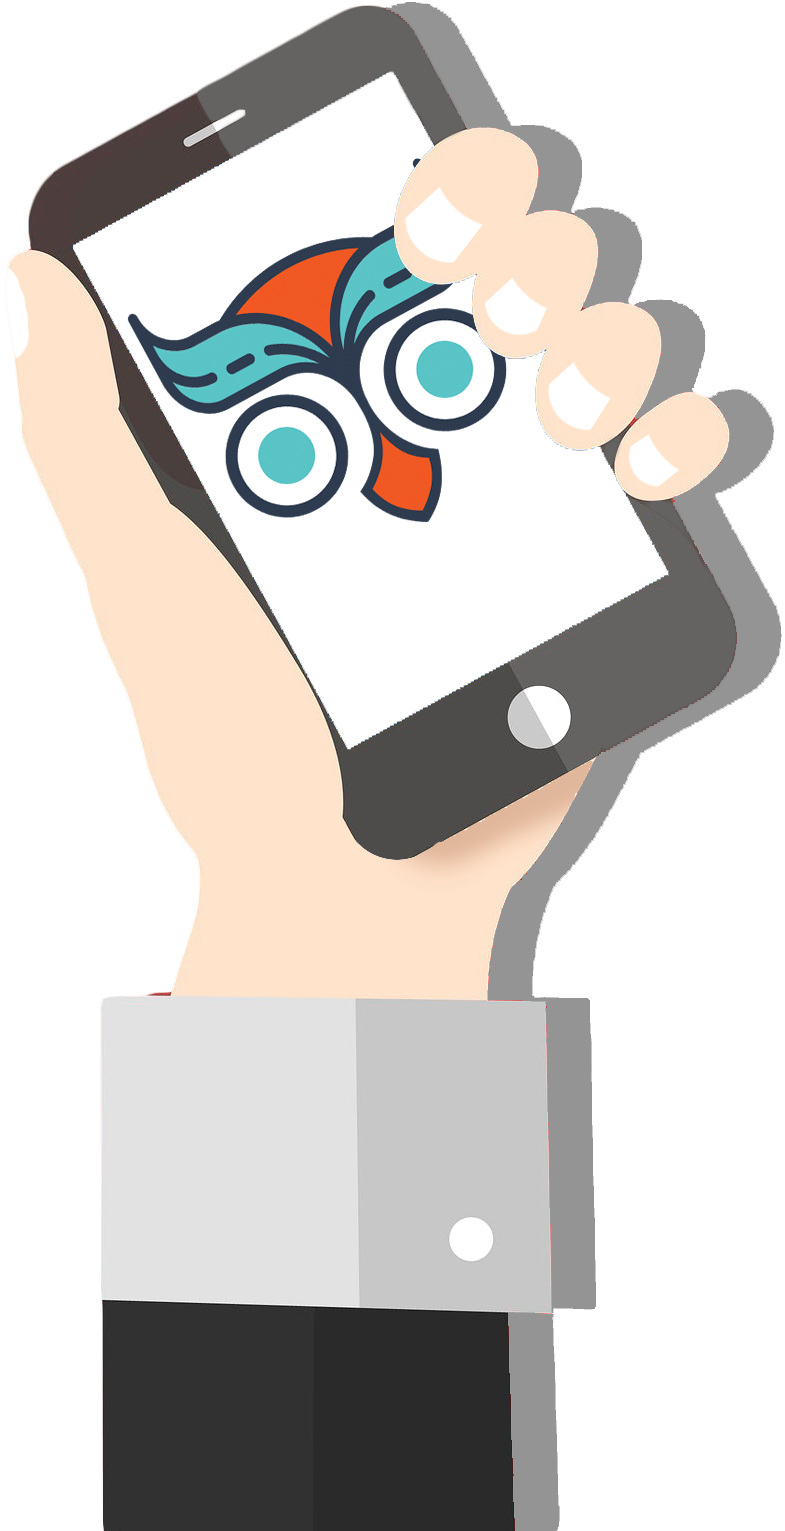
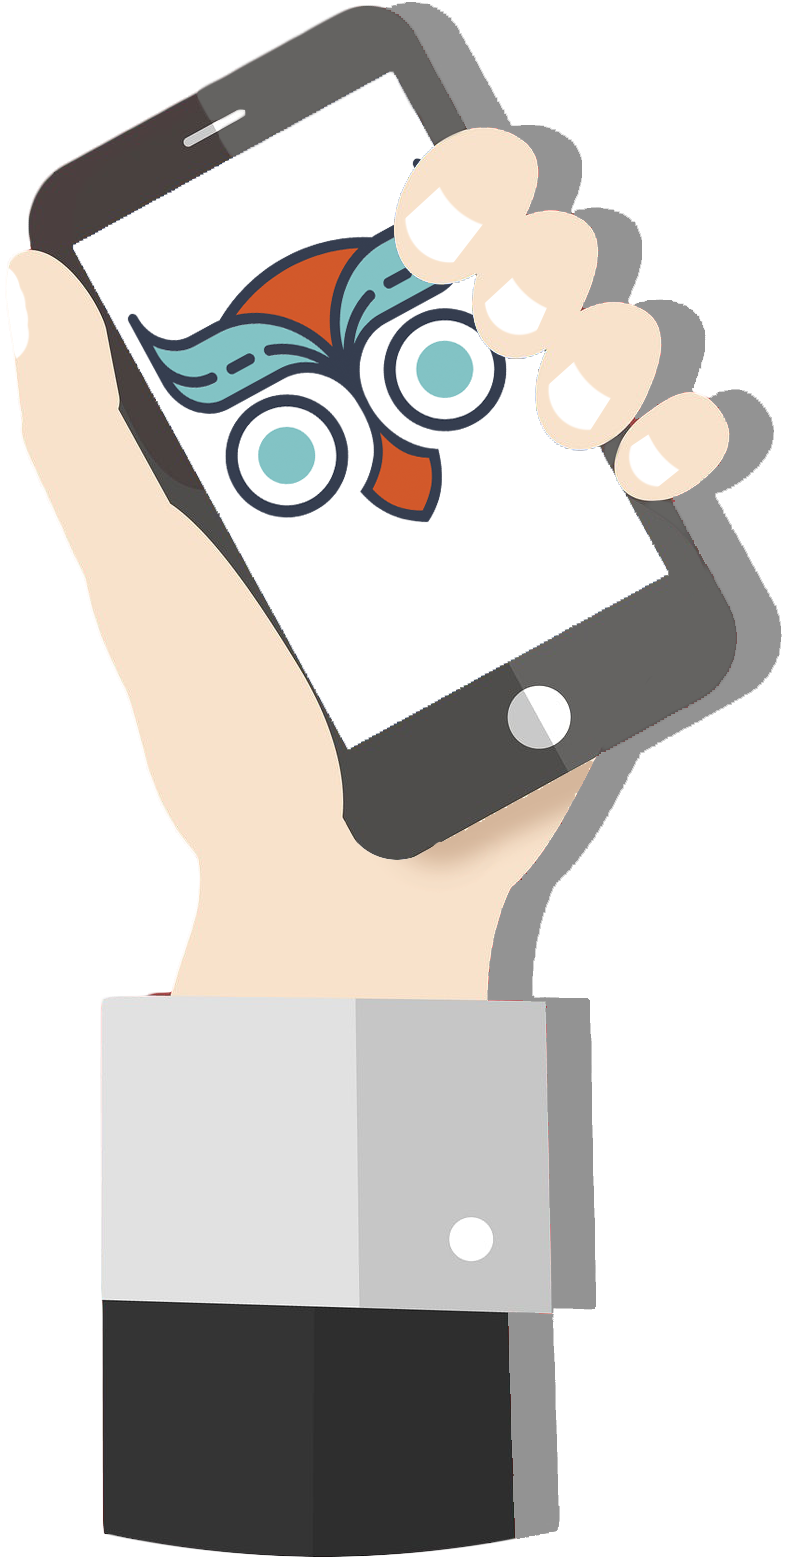
Added tutors and student stuff

diff --git a/index.html b/index.html
@@ -242,7 +242,6 @@
         <div class="section-header">
           <h3 class="section-title">For Tutors</h3>
           <span class="section-divider"></span>
-          <p class="section-description">On the other side of our LearnD app is the tutor; a passionate individual, who excels in some academic area</p>
         </div>
 
         <div class="row">
@@ -251,7 +250,7 @@
             <div class="box wow fadeInLeft">
               <div class="icon"><i class="ion-social-euro-outline"></i></div>
               <h4 class="title"><a href="">Set Your Rate</a></h4>
-              <p class="description">Set your own tuition rate.  LearnD is just a conduit to give you access to students.</p>
+              <p class="description">In choosing an hourly rate for your tuition services, make money flexibly by tutoring students in need.</p>
             </div>
           </div>
 
@@ -259,7 +258,7 @@
             <div class="box wow fadeInRight">
               <div class="icon"><i class="ion-coffee"></i></div>
               <h4 class="title"><a href="">Tutor Anywhere</a></h4>
-              <p class="description">Decide where you want to tutor, either at the student's place or at yours, or at Costa Coffee.</p>
+              <p class="description">The world is your classroom. The in-app chat and lesson request system makes it easy to set up a lesson anywhere.</p>
             </div>
           </div>
 
@@ -267,7 +266,7 @@
             <div class="box wow fadeInLeft">
               <div class="icon"><i class="ion-ios-heart-outline"></i></div>
               <h4 class="title"><a href="">Promote Yourself</a></h4>
-              <p class="description">Promote yourself in the subjects you love. Shine through with our rating system. </p>
+              <p class="description">Create your own tutor profile, outline your strengths, and allow potential students to discover you through our search. </p>
             </div>
           </div>
 
@@ -275,7 +274,7 @@
             <div class="box wow fadeInRight">
               <div class="icon"><i class="ion-ios-lightbulb-outline"></i></div>
               <h4 class="title"><a href="">Mentor & Inspire</a></h4>
-              <p class="description">Inspire younger students in difficulty. Let your enthusiasm for the subject brush off.</p>
+              <p class="description">Tutoring is a fulfilling way to contribute back to society. Show struggling students that just as you did it, they can too.</p>
             </div>
           </div>
 
@@ -290,11 +289,11 @@
       <div class="container">
         <div class="row">
           <div class="col-lg-9 text-center text-lg-left">
-            <h3 class="cta-title">Are you a star in some subject/topic?</h3>
-            <p class="cta-text">Then help some other students.  Send us your interest in tutoring other via the form below.  We will get in touch quickly.</p>
+            <h3 class="cta-title">Apply to Become a Tutor</h3>
+            <p class="cta-text">We are currently seeking university students to help us get the ball rolling. If you're passionate about a subject and want to make some pocket money, apply now.</p>
           </div>
           <div class="col-lg-3 cta-btn-container text-center">
-            <a class="cta-btn align-middle" href="#">Call To Action</a>
+            <a class="cta-btn align-middle" href="/application.html" target="_blank">Apply Here</a>
           </div>
         </div>
 
@@ -321,6 +320,56 @@
       </div>
     </section><!-- #more-features -->
 
+  <!--==========================
+      More Features Section
+    ============================-->
+    <section id="moremore-features" class="section-bg">
+      <div class="container">
+
+        <div class="section-header">
+          <h3 class="section-title">For Students</h3>
+          <span class="section-divider"></span>
+        </div>
+
+        <div class="row">
+
+          <div class="col-lg-6">
+            <div class="box wow fadeInLeft">
+              <div class="icon"><img src="img/individual.png"></div>
+              <h4 class="title"><a href="">Individual Attention</a></h4>
+              <p class="description">In choosing an hourly rate for your tuition services, make money flexibly by tutoring students in need.</p>
+            </div>
+          </div>
+
+          <div class="col-lg-6">
+            <div class="box wow fadeInRight">
+              <div class="icon"><i class="ion-coffee"></i></div>
+              <h4 class="title"><a href="">Tutor Anywhere</a></h4>
+              <p class="description">The world is your classroom. The in-app chat and lesson request system makes it easy to set up a lesson anywhere.</p>
+            </div>
+          </div>
+
+          <div class="col-lg-6">
+            <div class="box wow fadeInLeft">
+              <div class="icon"><i class="ion-ios-heart-outline"></i></div>
+              <h4 class="title"><a href="">Promote Yourself</a></h4>
+              <p class="description">Create your own tutor profile, outline your strengths, and allow potential students to discover you through our search. </p>
+            </div>
+          </div>
+
+          <div class="col-lg-6">
+            <div class="box wow fadeInRight">
+              <div class="icon"><i class="ion-ios-lightbulb-outline"></i></div>
+              <h4 class="title"><a href="">Mentor & Inspire</a></h4>
+              <p class="description">Tutoring is a fulfilling way to contribute back to society. Show struggling students that just as you did it, they can too.</p>
+            </div>
+          </div>
+
+        </div>
+      </div>
+    </section><!-- #more-features -->
+
+
     <!--==========================
       Pricing Section
     ============================-->
@@ -338,7 +387,7 @@
           <div class="col-lg-6 col-md-9">
             <div class="box wow fadeInLeft">
               <h3>Student</h3>
-              <h4><sup>&euro;</sup>0<span> month</span> - <b>Free</b></h4>
+              <h4><b>Free</b></h4>
               <ul>
                 <li><i class="ion-android-checkmark-circle"></i> Find tutor in specific subject</li>
                 <li><i class="ion-android-checkmark-circle"></i> Schedule tuition lessons</li>

diff --git a/css/style.css b/css/style.css
@@ -513,8 +513,8 @@ body.mobile-nav-active #mobile-nav-toggle {
   display: block;
   width: 60px;
   height: 3px;
-  background: #1dc8cd;
-  background: linear-gradient(0deg, #1dc8cd 0%, #55fabe 100%);
+  background: #59C4C6;
+  background: linear-gradient(0deg, #59C4C6 0%, #59C4C6 100%);
   margin: 0 auto;
   margin-bottom: 20px;
 }
@@ -643,14 +643,13 @@ em.teal {
 }
 
 #features .icon i {
-  color: #666666;
+  color: #59C4C6;
   font-size: 40px;
   transition: 0.5s;
 }
 
 #features .icon i:before {
-  background: #1dc8cd;
-  background: linear-gradient(45deg, #1dc8cd 0%, #55fabe 100%);
+  background: #59C4C6;
   background-clip: border-box;
   -webkit-background-clip: text;
   -webkit-text-fill-color: transparent;
@@ -754,19 +753,21 @@ em.teal {
 --------------------------------*/
 #call-to-action {
   overflow: hidden;
-  background: linear-gradient(rgba(29, 200, 205, 0.65), rgba(29, 205, 89, 0.2)), url(../img/call-to-action-bg.jpg) fixed center center;
+  background: linear-gradient(rgba(89, 196, 198, 0.65), rgba(89, 196, 198, 0.2)), url(../img/call-to-action-bg.jpg) fixed center center;
   background-size: cover;
   padding: 80px 0;
 }
 
 #call-to-action .cta-title {
   color: #fff;
+  font-family: 'sfregular';
   font-size: 28px;
-  font-weight: 700;
 }
 
 #call-to-action .cta-text {
   color: #fff;
+  font-family: 'sflight';
+  font-size: 20px;
 }
 
 @media (min-width: 769px) {
@@ -778,8 +779,7 @@ em.teal {
 }
 
 #call-to-action .cta-btn {
-  font-family: "Montserrat", sans-serif;
-  font-weight: 500;
+  font-family: 'sfregular';
   font-size: 16px;
   letter-spacing: 1px;
   display: inline-block;
@@ -792,7 +792,7 @@ em.teal {
 }
 
 #call-to-action .cta-btn:hover {
-  background: #1dc8cd;
+  background: #59C4C6;
   border: 2px solid #1dc8cd;
 }
 
@@ -823,8 +823,7 @@ em.teal {
 }
 
 #more-features .icon i:before {
-  background: #1dc8cd;
-  background: linear-gradient(45deg, #1dc8cd 0%, #55fabe 100%);
+  background: #59C4C6;
   background-clip: border-box;
   -webkit-background-clip: text;
   -webkit-text-fill-color: transparent;
@@ -832,17 +831,19 @@ em.teal {
 
 #more-features h4 {
   margin-left: 100px;
-  font-weight: 700;
+  color: #2E3B4F;
+  font-family: 'sfregular';
   margin-bottom: 15px;
-  font-size: 18px;
+  font-size: 22px;
 }
 
 #more-features h4 a {
-  color: #111;
+  color: #2E3B4F;
 }
 
 #more-features p {
-  font-size: 14px;
+  font-family: 'sflight';
+  font-size: 20px;
   margin-left: 100px;
   margin-bottom: 0;
   line-height: 24px;
@@ -875,12 +876,92 @@ em.teal {
   max-width: 100%;
   opacity: 0.5;
   transition: 0.3s;
-  padding: 15px 0;
+  padding: 15px 50px;
 }
 
 #clients img:hover {
   opacity: 1;
 }
+
+/* More More Features Section
+--------------------------------*/
+#moremore-features {
+  padding: 60px 0 60px 0;
+  overflow: hidden;
+}
+
+#moremore-features .section-divider {
+  background: #F05822;
+}
+
+#moremore-features .box {
+  padding: 40px;
+  margin-bottom: 30px;
+  box-shadow: 0px 0px 30px rgba(73, 78, 92, 0.15);
+  background: #fff;
+  transition: 0.4s;
+}
+
+#moremore-features img {
+  width: 80px;
+  text-align: center;
+  padding-bottom: 15px;
+}
+
+#moremore-features .icon {
+  float: left;
+}
+
+#moremore-features .icon i {
+  color: #666666;
+  font-size: 80px;
+  transition: 0.5s;
+  line-height: 0;
+}
+
+#moremore-features .icon i:before {
+  background: #59C4C6;
+  background-clip: border-box;
+  -webkit-background-clip: text;
+  -webkit-text-fill-color: transparent;
+}
+
+#moremore-features h4 {
+  margin-left: 100px;
+  color: #2E3B4F;
+  font-family: 'sfregular';
+  margin-bottom: 15px;
+  font-size: 22px;
+}
+
+#moremore-features h4 a {
+  color: #2E3B4F;
+}
+
+#moremore-features p {
+  font-family: 'sflight';
+  font-size: 20px;
+  margin-left: 100px;
+  margin-bottom: 0;
+  line-height: 24px;
+}
+
+@media (max-width: 767px) {
+  #moremore-features .box {
+    margin-bottom: 20px;
+  }
+  #moremore-features .icon {
+    float: none;
+    text-align: center;
+    padding-bottom: 15px;
+  }
+  #moremore-features h4, #moremore-features p {
+    margin-left: 0;
+    text-align: center;
+  }
+}
+
+
 
 /* Pricing Section
 --------------------------------*/
